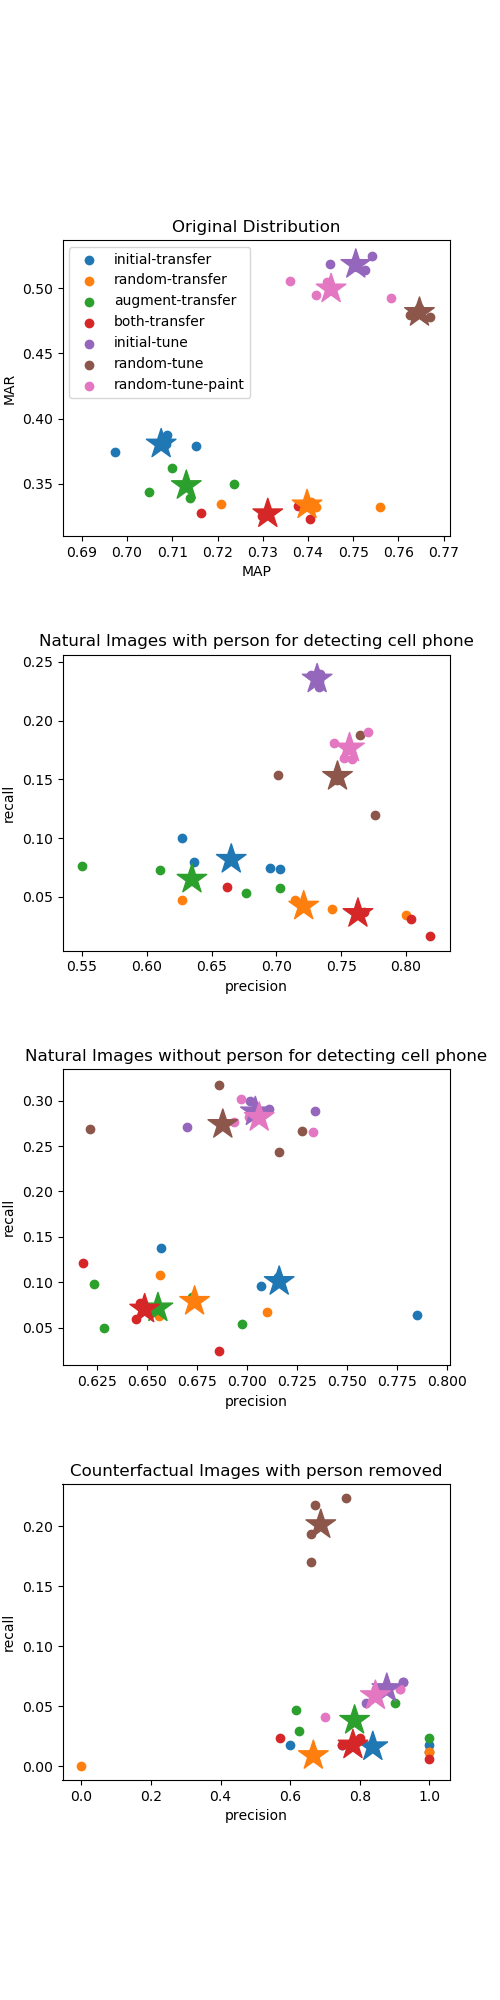
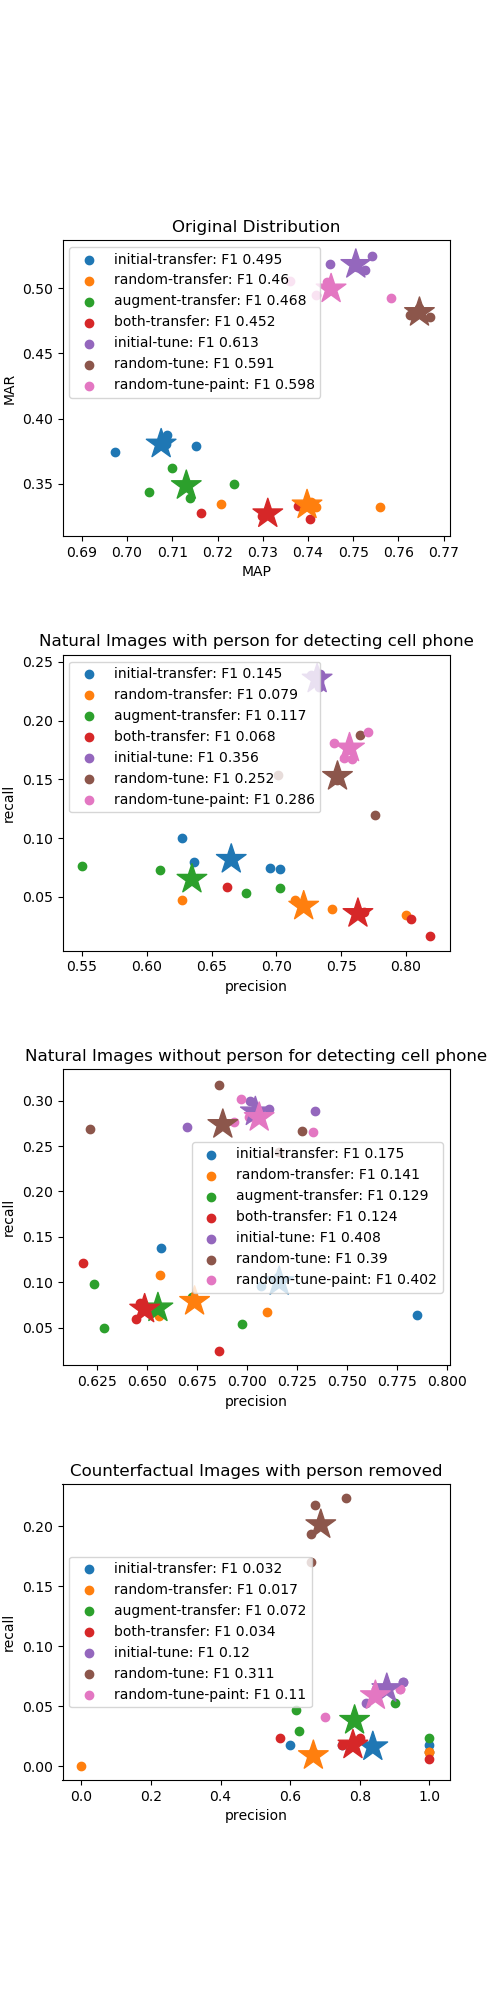
Added initial results using F1 as a performance metric

diff --git a/COCO/Plot.py b/COCO/Plot.py
@@ -9,6 +9,15 @@ import sys
 
 from COCOWrapper import COCOWrapper
 
+def F1(p, r):
+    f = []
+    for i in range(len(p)):
+        if p[i] == 0 and r[i] == 0:
+            f.append(0)
+        else:
+            f.append(2 * p[i] * r[i] / (p[i] + r[i]))
+    return f
+
 if __name__ == '__main__':
 
     print(sys.argv)
@@ -39,10 +48,10 @@ if __name__ == '__main__':
             p_mean.append(np.mean(p))
             r_mean.append(np.mean(r))
                                 
-            plt.scatter(p, r, label = task)
+            plt.scatter(p, r, label = '{}: F1 {}'.format(task, np.round(np.mean(F1(p, r)), 3)))
         
         plt.scatter(p_mean, r_mean, marker = '*', s = 500, c = plt.rcParams['axes.prop_cycle'].by_key()['color'][:len(p_mean)])
-
+        plt.legend()
     
     tasks = ['initial-transfer', 'random-transfer', 'augment-transfer', 'both-transfer', 'initial-tune', 'random-tune', 'random-tune-paint']
 
@@ -76,7 +85,7 @@ if __name__ == '__main__':
         p_mean.append(np.mean(p))
         r_mean.append(np.mean(r))
                             
-        plt.scatter(p, r, label = task)
+        plt.scatter(p, r, label = '{}: F1 {}'.format(task, np.round(np.mean(F1(p, r)), 3)))
     plt.legend()
     plt.scatter(p_mean, r_mean, marker = '*', s = 500, c = plt.rcParams['axes.prop_cycle'].by_key()['color'][:len(p_mean)])
             
